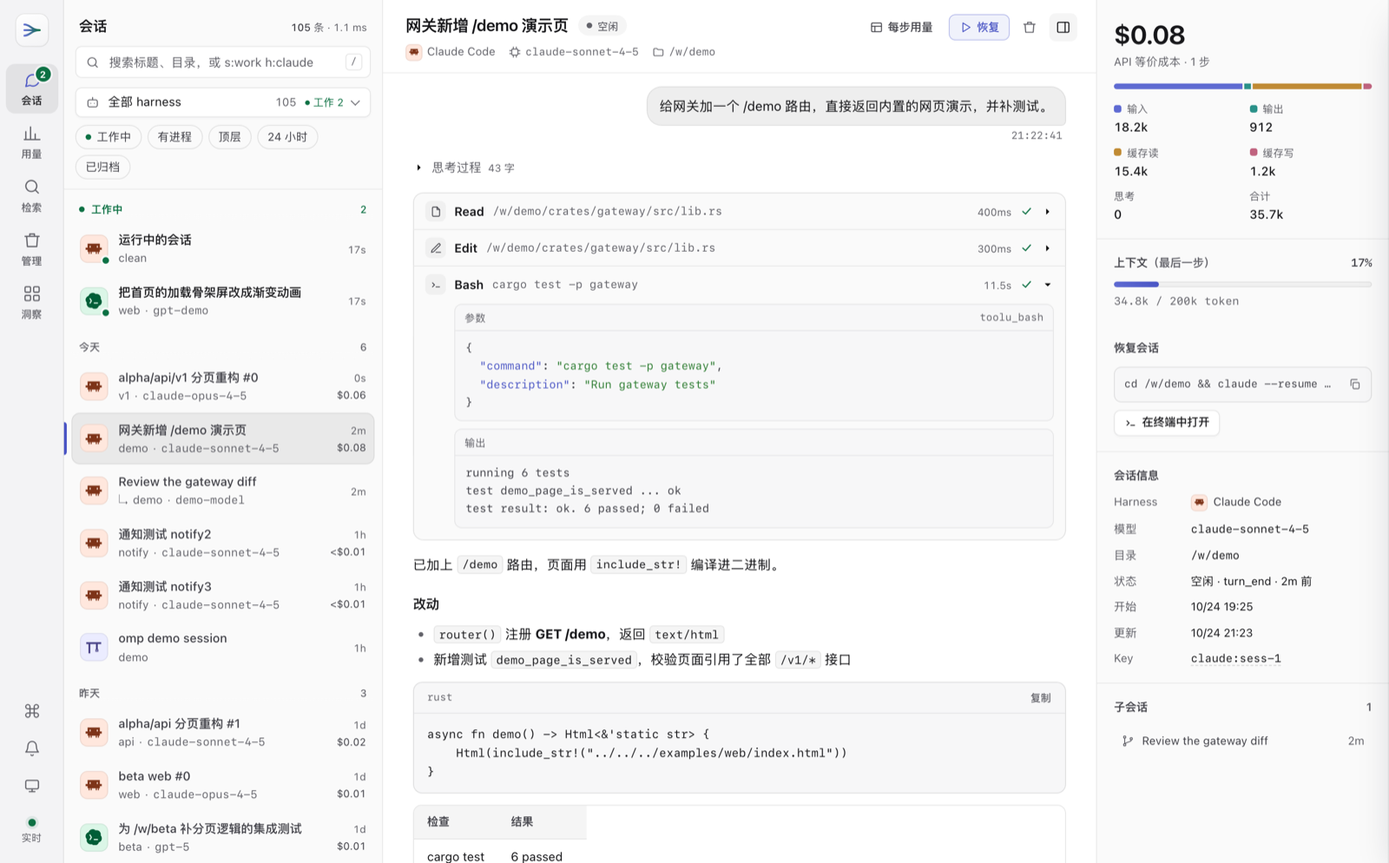
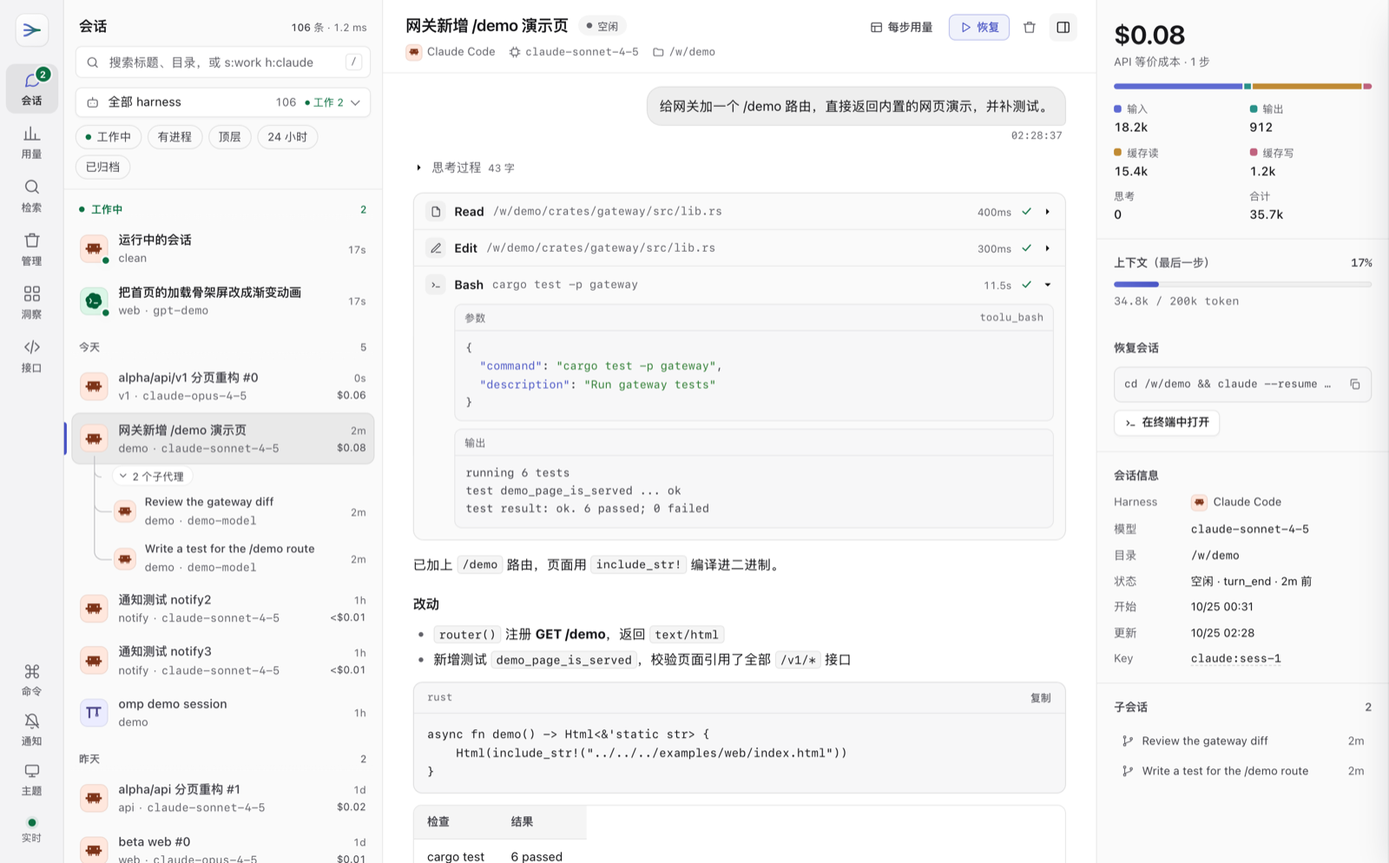
feat(gateway): 会话列表按父子层级显示子代理
- 子代理挂在父会话下，缩进加连接线；分支首行「N 个子代理 · M 工作中」可折叠
- 子代理多于 4 个时默认显示工作中的和最近 3 个，其余「还有 N 个子代理」展开
- 一家子按最活跃的成员归组排序；分组计数按顶层条目
- 子代理会话头改为「子代理 · 父会话 <标题>」，点击打开父会话
- e2e 新增 runTree 与第二个合成子代理；检索跳转用例等列表选中就绪再断言

diff --git a/crates/uniflo-gateway/src/index.html b/crates/uniflo-gateway/src/index.html
@@ -319,6 +319,27 @@ input[type=checkbox].cb:disabled { opacity: .35; cursor: not-allowed; }
 .row-side { display: flex; flex-direction: column; align-items: flex-end; gap: 1px; font-size: var(--fs-2xs); color: var(--text-3); font-variant-numeric: tabular-nums; white-space: nowrap; }
 .row-cost { color: var(--text-2); }
 .row .sub-i { color: var(--text-3); flex: none; }
+/* sub-agent tree: children hang under the parent's icon; trunk + elbow lines, folded with the chip */
+#list { --tree: color-mix(in srgb, var(--text-3) 38%, var(--bg-side)); }
+.kids { position: relative; margin-left: 24px; }
+.kids .kids { margin-left: 21px; }
+.kids > .node { position: relative; padding-left: 12px; }
+.kids > .node:not(:last-child)::before { content: ""; position: absolute; left: 0; top: 0; bottom: 0; border-left: 1.5px solid var(--tree); pointer-events: none; }
+.kids > .node > .row::after { content: ""; position: absolute; left: -12px; top: -9px; width: 18px; height: calc(50% + 9px); border: solid var(--tree); border-width: 0 0 1.5px 1.5px; border-bottom-left-radius: 9px; pointer-events: none; }
+.kids > .node > .row[data-status=work]::after { border-color: color-mix(in srgb, var(--work) 60%, var(--bg-side)); }
+.kids > .node > .row.sel::after { border-color: var(--accent); }
+.kids .row.sel::before { display: none; }
+.kids .ricon { --s: 24px; }
+.kids .row { gap: 9px; padding-top: 6px; padding-bottom: 6px; }
+.kids .row-title { font-size: var(--fs-xs); }
+.kid-tog { display: inline-flex; align-items: center; gap: 4px; height: 22px; margin: 1px 0 2px 7px; padding: 0 9px 0 5px; border: 1px solid var(--border); border-radius: 999px; background: var(--bg); color: var(--text-2); font-size: 11px; cursor: pointer; }
+.kid-tog:hover { border-color: var(--border-strong); color: var(--text); }
+.kid-tog.busy { color: var(--work); border-color: color-mix(in srgb, var(--work) 35%, transparent); }
+.kid-tog svg.i { width: 12px; height: 12px; transition: transform var(--dur) var(--ease); }
+.kid-tog[aria-expanded=true] svg.i { transform: rotate(90deg); }
+.kids-more { display: block; margin: 1px 0 3px 7px; padding: 3px 8px; border: 0; border-radius: 7px; background: none; color: var(--text-3); font-size: var(--fs-2xs); cursor: pointer; }
+.kids-more:hover { background: var(--hover); color: var(--text); }
+.kids > .node:is(.kh, .more)::after { content: ""; position: absolute; left: 0; top: -9px; width: 7px; height: calc(50% + 9px); border: solid var(--tree); border-width: 0 0 1.5px 1.5px; border-bottom-left-radius: 7px; pointer-events: none; }
 
 .conv { position: relative; display: flex; flex-direction: column; min-width: 0; min-height: 0; background: var(--bg); }
 .conv-h { display: flex; align-items: flex-start; gap: 12px; padding: 14px 20px 12px 24px; border-bottom: 1px solid var(--border); flex: none; }
@@ -331,6 +352,9 @@ input[type=checkbox].cb:disabled { opacity: .35; cursor: not-allowed; }
 .mchip > span { overflow: hidden; text-overflow: ellipsis; }
 .mchip svg.i { width: 13px; height: 13px; }
 .mchip.mono { font-size: 11.5px; }
+button.mchip { border: 0; background: none; padding: 0; font-family: inherit; cursor: pointer; }
+.parent-link:hover { color: var(--accent); }
+.parent-link .txt { color: var(--text-2); max-width: 22em; overflow: hidden; text-overflow: ellipsis; display: inline-block; vertical-align: bottom; }
 .ch-actions { display: flex; align-items: center; gap: 6px; flex: none; }
 #steps-toggle[aria-expanded=true] { background: var(--active); }
 .steps { margin: 0 20px 0 24px; border: 1px solid var(--border-2); border-top: 0; border-radius: 0 0 var(--r-lg) var(--r-lg); max-height: 300px; overflow: auto; flex: none; background: var(--panel); }
@@ -2289,20 +2313,25 @@ function renderList() {
   requestAnimationFrame(() => {
     listQueued = false;
     const all = order.map((k) => sessions.get(k)).filter(Boolean);
+    const tree = sessionTree(all), out = [];
     let html = "";
     if (filtered()) {
-      shown = all.map((s) => s.key);
-      html = all.map(rowHtml).join("");
+      html = tree.roots.map((s) => nodeHtml(s, tree, out)).join("");
     } else {
-      // Working sessions first, then the rest bucketed by the calendar day of their last activity.
+      // Working families first, then the rest bucketed by the calendar day of their latest activity.
       const today = new Date(); today.setHours(0, 0, 0, 0);
       const t0 = today.getTime(), y0 = addDays(today, -1).getTime(), w0 = addDays(today, -6).getTime();
       const groups = [["工作中", []], ["今天", []], ["昨天", []], ["最近 7 天", []], ["更早", []]];
-      for (const s of all) groups[s.status === "work" ? 0 : s.updated_at >= t0 ? 1 : s.updated_at >= y0 ? 2 : s.updated_at >= w0 ? 3 : 4][1].push(s);
-      shown = groups.flatMap(([, g]) => g.map((s) => s.key));
-      html = groups.filter(([, g]) => g.length).map(([name, g], i) =>
-        `<div class="group-h${name === "工作中" ? " live" : ""}">${name === "工作中" ? '<span class="dot work"></span>' : ""}<span>${name}</span><span class="n">${g.length}</span></div>` + g.map(rowHtml).join("")).join("");
+      for (const s of tree.roots) {
+        const f = tree.fam.get(s.key);
+        groups[f.work ? 0 : f.updated >= t0 ? 1 : f.updated >= y0 ? 2 : f.updated >= w0 ? 3 : 4][1].push(s);
+      }
+      html = groups.filter(([, g]) => g.length).map(([name, g]) => {
+        g.sort((a, b) => tree.fam.get(b.key).updated - tree.fam.get(a.key).updated);
+        return `<div class="group-h${name === "工作中" ? " live" : ""}">${name === "工作中" ? '<span class="dot work"></span>' : ""}<span>${name}</span><span class="n">${g.length}</span></div>` + g.map((s) => nodeHtml(s, tree, out)).join("");
+      }).join("");
     }
+    shown = out;
     $("#list").innerHTML = all.length ? html : `<div class="empty"><h3>没有匹配的会话</h3><p>试试 <kbd>s:work</kbd> 或换个关键词</p></div>`;
     const work = all.filter((s) => s.status === "work").length, badge = $("#rb-work");
     badge.hidden = !work;
@@ -2311,12 +2340,59 @@ function renderList() {
 }
 const usageCost = (u) => (!u || !u.steps ? "" : u.cost_usd != null ? money(u.cost_usd) : "未定价");
 const tile = (id, cls = "") => `<span class="htile ${cls}" style="--h:${hue(id)}">${hicon(id)}</span>`;
+// Sub-agents nest under their parent when the parent is in the list; a family sorts and groups by
+// its most active member, so a parent whose sub-agents are working sits in 工作中 with them.
+const kidFold = new Map(); // parent key -> true folded / false fully open; unset = auto
+const KIDS_AUTO = 4; // auto mode shows every working child plus the 3 latest, the rest behind "还有 N 个"
+function sessionTree(all) {
+  const by = new Map(all.map((s) => [s.key, s])), kids = new Map(), roots = [], fam = new Map();
+  for (const s of all) {
+    if (s.parent && s.parent !== s.key && by.has(s.parent)) (kids.get(s.parent) || kids.set(s.parent, []).get(s.parent)).push(s);
+    else roots.push(s);
+  }
+  const walk = (s, path) => {
+    if (fam.has(s.key)) return fam.get(s.key);
+    const f = { work: s.status === "work", updated: s.updated_at };
+    fam.set(s.key, f);
+    path.add(s.key);
+    for (const k of kids.get(s.key) || []) {
+      if (path.has(k.key)) continue;
+      const g = walk(k, path);
+      f.work ||= g.work; f.updated = Math.max(f.updated, g.updated);
+    }
+    path.delete(s.key);
+    return f;
+  };
+  for (const s of roots) walk(s, new Set());
+  // a parent cycle leaves its members unreachable from any root: list them as roots instead
+  for (const s of all) if (!fam.has(s.key)) { roots.push(s); walk(s, new Set()); }
+  for (const ks of kids.values()) ks.sort((a, b) => fam.get(b.key).work - fam.get(a.key).work || fam.get(b.key).updated - fam.get(a.key).updated);
+  return { roots, kids, fam };
+}
+function nodeHtml(s, tree, out, seen = new Set()) {
+  seen.add(s.key);
+  out.push(s.key);
+  const ks = (tree.kids.get(s.key) || []).filter((k) => !seen.has(k.key));
+  if (!ks.length) return `<div class="node">${rowHtml(s)}</div>`;
+  const fold = kidFold.get(s.key), busy = ks.filter((k) => tree.fam.get(k.key).work).length;
+  const vis = fold === true ? [] : fold === false || ks.length <= KIDS_AUTO ? ks : ks.slice(0, Math.max(3, busy));
+  const sel = ks.find((k) => k.key === selected); // the open session always stays visible
+  if (sel && !vis.includes(sel)) vis.push(sel);
+  const more = ks.length - vis.length;
+  const open = vis.length > 0;
+  const head = `<div class="node kh"><button class="kid-tog${busy ? " busy" : ""}" data-kids="${esc(s.key)}" aria-expanded="${open}" title="${open ? "收起" : "展开"}子代理">${icon("chev")}<span>${ks.length} 个子代理${busy ? ` · ${busy} 工作中` : ""}</span></button></div>`;
+  const kidsHtml = vis.map((k) => nodeHtml(k, tree, out, seen)).join("")
+    + (more && open ? `<div class="node more"><button class="kids-more" data-kids="${esc(s.key)}">还有 ${more} 个子代理</button></div>` : "");
+  return `<div class="node fam">${rowHtml(s)}<div class="kids" role="group" aria-label="${esc(label(s))} 的子代理">${head}${kidsHtml}</div></div>`;
+}
 function rowHtml(s) {
   const u = s.usage, cost = usageCost(u);
-  return `<div class="row${s.key === selected ? " sel" : ""}" data-key="${esc(s.key)}" data-status="${s.status}">
+  // a sub-agent whose parent is not in the list says so; nested ones show it through the tree lines
+  const orphan = s.parent && !sessions.has(s.parent) ? '<span class="sub-i" title="子代理，父会话不在当前列表">↳ 子代理</span>' : "";
+  return `<div class="row${s.key === selected ? " sel" : ""}${s.parent && sessions.has(s.parent) ? " kid" : ""}" data-key="${esc(s.key)}" data-status="${s.status}">
     <span class="ricon htile" style="--h:${hue(s.harness)}">${hicon(s.harness)}${s.status === "work" ? '<i class="live-ring"></i>' : ""}</span>
     <div class="row-main"><span class="row-title txt">${esc(label(s))}</span>
-      <div class="row-meta">${s.parent ? '<span class="sub-i" title="子会话">↳</span>' : ""}<span class="cwd txt">${esc(base(s.cwd) || s.harness)}</span>${s.model ? `<span class="sep">·</span><span class="mono">${esc(s.model)}</span>` : ""}${s.archived ? '<span class="tag acc" title="源文件已清理，内容来自精简归档">已归档</span>' : ""}${s.pid ? `<span class="pid" title="进程 ${s.pid}">⚡${s.pid}</span>` : ""}</div></div>
+      <div class="row-meta">${orphan}<span class="cwd txt">${esc(base(s.cwd) || s.harness)}</span>${s.model ? `<span class="sep">·</span><span class="mono">${esc(s.model)}</span>` : ""}${s.archived ? '<span class="tag acc" title="源文件已清理，内容来自精简归档">已归档</span>' : ""}${s.pid ? `<span class="pid" title="进程 ${s.pid}">⚡${s.pid}</span>` : ""}</div></div>
     <div class="row-side"><span class="age" data-ts="${s.updated_at}">${age(s.updated_at)}</span>${cost ? `<span class="row-cost" title="API 等价成本 ${esc(cost)} · ${full(tokensOf(u))} token · ${u.steps} 步">${esc(cost)}</span>` : ""}</div>
   </div>`;
 }
@@ -2539,7 +2615,7 @@ function renderHead(s, rebuild = false) {
     ${s.model ? `<span class="mchip mono">${icon("cpu")}<span>${esc(s.model)}</span></span>` : ""}
     ${s.cwd ? `<span class="mchip mono" title="${esc(s.cwd)}">${icon("folder")}<span class="txt">${esc(shortPath(s.cwd))}</span></span>` : ""}
     ${s.archived ? '<span class="tag acc" title="源文件已移入回收站，内容来自精简归档">已归档</span>' : ""}
-    ${s.parent ? `<span class="mchip">${icon("branch")}<span>子会话</span></span>` : ""}`;
+    ${s.parent ? `<button class="mchip parent-link" data-open="${esc(s.parent)}" title="打开父会话 ${esc(s.parent)}">${icon("branch")}<span>子代理 · 父会话 <span class="txt">${esc(sessions.has(s.parent) ? label(sessions.get(s.parent)) : short(s.parent))}</span></span></button>` : ""}`;
   renderInspector(s);
   loadHeadResume(s.key);
   renderUsageStrip(s.usage);
@@ -4754,6 +4830,12 @@ document.addEventListener("click", (e) => {
     syncFilters();
     queueSearch(0);
     return;
+  }
+  const kt = t.closest("[data-kids]");
+  if (kt) {
+    const k = kt.dataset.kids;
+    kidFold.set(k, kt.classList.contains("kids-more") ? false : kt.getAttribute("aria-expanded") === "true");
+    return renderList();
   }
   const row = t.closest(".row[data-key]");
   if (row) return select(row.dataset.key);

diff --git a/examples/web/index.html b/examples/web/index.html
@@ -319,6 +319,27 @@ input[type=checkbox].cb:disabled { opacity: .35; cursor: not-allowed; }
 .row-side { display: flex; flex-direction: column; align-items: flex-end; gap: 1px; font-size: var(--fs-2xs); color: var(--text-3); font-variant-numeric: tabular-nums; white-space: nowrap; }
 .row-cost { color: var(--text-2); }
 .row .sub-i { color: var(--text-3); flex: none; }
+/* sub-agent tree: children hang under the parent's icon; trunk + elbow lines, folded with the chip */
+#list { --tree: color-mix(in srgb, var(--text-3) 38%, var(--bg-side)); }
+.kids { position: relative; margin-left: 24px; }
+.kids .kids { margin-left: 21px; }
+.kids > .node { position: relative; padding-left: 12px; }
+.kids > .node:not(:last-child)::before { content: ""; position: absolute; left: 0; top: 0; bottom: 0; border-left: 1.5px solid var(--tree); pointer-events: none; }
+.kids > .node > .row::after { content: ""; position: absolute; left: -12px; top: -9px; width: 18px; height: calc(50% + 9px); border: solid var(--tree); border-width: 0 0 1.5px 1.5px; border-bottom-left-radius: 9px; pointer-events: none; }
+.kids > .node > .row[data-status=work]::after { border-color: color-mix(in srgb, var(--work) 60%, var(--bg-side)); }
+.kids > .node > .row.sel::after { border-color: var(--accent); }
+.kids .row.sel::before { display: none; }
+.kids .ricon { --s: 24px; }
+.kids .row { gap: 9px; padding-top: 6px; padding-bottom: 6px; }
+.kids .row-title { font-size: var(--fs-xs); }
+.kid-tog { display: inline-flex; align-items: center; gap: 4px; height: 22px; margin: 1px 0 2px 7px; padding: 0 9px 0 5px; border: 1px solid var(--border); border-radius: 999px; background: var(--bg); color: var(--text-2); font-size: 11px; cursor: pointer; }
+.kid-tog:hover { border-color: var(--border-strong); color: var(--text); }
+.kid-tog.busy { color: var(--work); border-color: color-mix(in srgb, var(--work) 35%, transparent); }
+.kid-tog svg.i { width: 12px; height: 12px; transition: transform var(--dur) var(--ease); }
+.kid-tog[aria-expanded=true] svg.i { transform: rotate(90deg); }
+.kids-more { display: block; margin: 1px 0 3px 7px; padding: 3px 8px; border: 0; border-radius: 7px; background: none; color: var(--text-3); font-size: var(--fs-2xs); cursor: pointer; }
+.kids-more:hover { background: var(--hover); color: var(--text); }
+.kids > .node:is(.kh, .more)::after { content: ""; position: absolute; left: 0; top: -9px; width: 7px; height: calc(50% + 9px); border: solid var(--tree); border-width: 0 0 1.5px 1.5px; border-bottom-left-radius: 7px; pointer-events: none; }
 
 .conv { position: relative; display: flex; flex-direction: column; min-width: 0; min-height: 0; background: var(--bg); }
 .conv-h { display: flex; align-items: flex-start; gap: 12px; padding: 14px 20px 12px 24px; border-bottom: 1px solid var(--border); flex: none; }
@@ -331,6 +352,9 @@ input[type=checkbox].cb:disabled { opacity: .35; cursor: not-allowed; }
 .mchip > span { overflow: hidden; text-overflow: ellipsis; }
 .mchip svg.i { width: 13px; height: 13px; }
 .mchip.mono { font-size: 11.5px; }
+button.mchip { border: 0; background: none; padding: 0; font-family: inherit; cursor: pointer; }
+.parent-link:hover { color: var(--accent); }
+.parent-link .txt { color: var(--text-2); max-width: 22em; overflow: hidden; text-overflow: ellipsis; display: inline-block; vertical-align: bottom; }
 .ch-actions { display: flex; align-items: center; gap: 6px; flex: none; }
 #steps-toggle[aria-expanded=true] { background: var(--active); }
 .steps { margin: 0 20px 0 24px; border: 1px solid var(--border-2); border-top: 0; border-radius: 0 0 var(--r-lg) var(--r-lg); max-height: 300px; overflow: auto; flex: none; background: var(--panel); }
@@ -2289,20 +2313,25 @@ function renderList() {
   requestAnimationFrame(() => {
     listQueued = false;
     const all = order.map((k) => sessions.get(k)).filter(Boolean);
+    const tree = sessionTree(all), out = [];
     let html = "";
     if (filtered()) {
-      shown = all.map((s) => s.key);
-      html = all.map(rowHtml).join("");
+      html = tree.roots.map((s) => nodeHtml(s, tree, out)).join("");
     } else {
-      // Working sessions first, then the rest bucketed by the calendar day of their last activity.
+      // Working families first, then the rest bucketed by the calendar day of their latest activity.
       const today = new Date(); today.setHours(0, 0, 0, 0);
       const t0 = today.getTime(), y0 = addDays(today, -1).getTime(), w0 = addDays(today, -6).getTime();
       const groups = [["工作中", []], ["今天", []], ["昨天", []], ["最近 7 天", []], ["更早", []]];
-      for (const s of all) groups[s.status === "work" ? 0 : s.updated_at >= t0 ? 1 : s.updated_at >= y0 ? 2 : s.updated_at >= w0 ? 3 : 4][1].push(s);
-      shown = groups.flatMap(([, g]) => g.map((s) => s.key));
-      html = groups.filter(([, g]) => g.length).map(([name, g], i) =>
-        `<div class="group-h${name === "工作中" ? " live" : ""}">${name === "工作中" ? '<span class="dot work"></span>' : ""}<span>${name}</span><span class="n">${g.length}</span></div>` + g.map(rowHtml).join("")).join("");
+      for (const s of tree.roots) {
+        const f = tree.fam.get(s.key);
+        groups[f.work ? 0 : f.updated >= t0 ? 1 : f.updated >= y0 ? 2 : f.updated >= w0 ? 3 : 4][1].push(s);
+      }
+      html = groups.filter(([, g]) => g.length).map(([name, g]) => {
+        g.sort((a, b) => tree.fam.get(b.key).updated - tree.fam.get(a.key).updated);
+        return `<div class="group-h${name === "工作中" ? " live" : ""}">${name === "工作中" ? '<span class="dot work"></span>' : ""}<span>${name}</span><span class="n">${g.length}</span></div>` + g.map((s) => nodeHtml(s, tree, out)).join("");
+      }).join("");
     }
+    shown = out;
     $("#list").innerHTML = all.length ? html : `<div class="empty"><h3>没有匹配的会话</h3><p>试试 <kbd>s:work</kbd> 或换个关键词</p></div>`;
     const work = all.filter((s) => s.status === "work").length, badge = $("#rb-work");
     badge.hidden = !work;
@@ -2311,12 +2340,59 @@ function renderList() {
 }
 const usageCost = (u) => (!u || !u.steps ? "" : u.cost_usd != null ? money(u.cost_usd) : "未定价");
 const tile = (id, cls = "") => `<span class="htile ${cls}" style="--h:${hue(id)}">${hicon(id)}</span>`;
+// Sub-agents nest under their parent when the parent is in the list; a family sorts and groups by
+// its most active member, so a parent whose sub-agents are working sits in 工作中 with them.
+const kidFold = new Map(); // parent key -> true folded / false fully open; unset = auto
+const KIDS_AUTO = 4; // auto mode shows every working child plus the 3 latest, the rest behind "还有 N 个"
+function sessionTree(all) {
+  const by = new Map(all.map((s) => [s.key, s])), kids = new Map(), roots = [], fam = new Map();
+  for (const s of all) {
+    if (s.parent && s.parent !== s.key && by.has(s.parent)) (kids.get(s.parent) || kids.set(s.parent, []).get(s.parent)).push(s);
+    else roots.push(s);
+  }
+  const walk = (s, path) => {
+    if (fam.has(s.key)) return fam.get(s.key);
+    const f = { work: s.status === "work", updated: s.updated_at };
+    fam.set(s.key, f);
+    path.add(s.key);
+    for (const k of kids.get(s.key) || []) {
+      if (path.has(k.key)) continue;
+      const g = walk(k, path);
+      f.work ||= g.work; f.updated = Math.max(f.updated, g.updated);
+    }
+    path.delete(s.key);
+    return f;
+  };
+  for (const s of roots) walk(s, new Set());
+  // a parent cycle leaves its members unreachable from any root: list them as roots instead
+  for (const s of all) if (!fam.has(s.key)) { roots.push(s); walk(s, new Set()); }
+  for (const ks of kids.values()) ks.sort((a, b) => fam.get(b.key).work - fam.get(a.key).work || fam.get(b.key).updated - fam.get(a.key).updated);
+  return { roots, kids, fam };
+}
+function nodeHtml(s, tree, out, seen = new Set()) {
+  seen.add(s.key);
+  out.push(s.key);
+  const ks = (tree.kids.get(s.key) || []).filter((k) => !seen.has(k.key));
+  if (!ks.length) return `<div class="node">${rowHtml(s)}</div>`;
+  const fold = kidFold.get(s.key), busy = ks.filter((k) => tree.fam.get(k.key).work).length;
+  const vis = fold === true ? [] : fold === false || ks.length <= KIDS_AUTO ? ks : ks.slice(0, Math.max(3, busy));
+  const sel = ks.find((k) => k.key === selected); // the open session always stays visible
+  if (sel && !vis.includes(sel)) vis.push(sel);
+  const more = ks.length - vis.length;
+  const open = vis.length > 0;
+  const head = `<div class="node kh"><button class="kid-tog${busy ? " busy" : ""}" data-kids="${esc(s.key)}" aria-expanded="${open}" title="${open ? "收起" : "展开"}子代理">${icon("chev")}<span>${ks.length} 个子代理${busy ? ` · ${busy} 工作中` : ""}</span></button></div>`;
+  const kidsHtml = vis.map((k) => nodeHtml(k, tree, out, seen)).join("")
+    + (more && open ? `<div class="node more"><button class="kids-more" data-kids="${esc(s.key)}">还有 ${more} 个子代理</button></div>` : "");
+  return `<div class="node fam">${rowHtml(s)}<div class="kids" role="group" aria-label="${esc(label(s))} 的子代理">${head}${kidsHtml}</div></div>`;
+}
 function rowHtml(s) {
   const u = s.usage, cost = usageCost(u);
-  return `<div class="row${s.key === selected ? " sel" : ""}" data-key="${esc(s.key)}" data-status="${s.status}">
+  // a sub-agent whose parent is not in the list says so; nested ones show it through the tree lines
+  const orphan = s.parent && !sessions.has(s.parent) ? '<span class="sub-i" title="子代理，父会话不在当前列表">↳ 子代理</span>' : "";
+  return `<div class="row${s.key === selected ? " sel" : ""}${s.parent && sessions.has(s.parent) ? " kid" : ""}" data-key="${esc(s.key)}" data-status="${s.status}">
     <span class="ricon htile" style="--h:${hue(s.harness)}">${hicon(s.harness)}${s.status === "work" ? '<i class="live-ring"></i>' : ""}</span>
     <div class="row-main"><span class="row-title txt">${esc(label(s))}</span>
-      <div class="row-meta">${s.parent ? '<span class="sub-i" title="子会话">↳</span>' : ""}<span class="cwd txt">${esc(base(s.cwd) || s.harness)}</span>${s.model ? `<span class="sep">·</span><span class="mono">${esc(s.model)}</span>` : ""}${s.archived ? '<span class="tag acc" title="源文件已清理，内容来自精简归档">已归档</span>' : ""}${s.pid ? `<span class="pid" title="进程 ${s.pid}">⚡${s.pid}</span>` : ""}</div></div>
+      <div class="row-meta">${orphan}<span class="cwd txt">${esc(base(s.cwd) || s.harness)}</span>${s.model ? `<span class="sep">·</span><span class="mono">${esc(s.model)}</span>` : ""}${s.archived ? '<span class="tag acc" title="源文件已清理，内容来自精简归档">已归档</span>' : ""}${s.pid ? `<span class="pid" title="进程 ${s.pid}">⚡${s.pid}</span>` : ""}</div></div>
     <div class="row-side"><span class="age" data-ts="${s.updated_at}">${age(s.updated_at)}</span>${cost ? `<span class="row-cost" title="API 等价成本 ${esc(cost)} · ${full(tokensOf(u))} token · ${u.steps} 步">${esc(cost)}</span>` : ""}</div>
   </div>`;
 }
@@ -2539,7 +2615,7 @@ function renderHead(s, rebuild = false) {
     ${s.model ? `<span class="mchip mono">${icon("cpu")}<span>${esc(s.model)}</span></span>` : ""}
     ${s.cwd ? `<span class="mchip mono" title="${esc(s.cwd)}">${icon("folder")}<span class="txt">${esc(shortPath(s.cwd))}</span></span>` : ""}
     ${s.archived ? '<span class="tag acc" title="源文件已移入回收站，内容来自精简归档">已归档</span>' : ""}
-    ${s.parent ? `<span class="mchip">${icon("branch")}<span>子会话</span></span>` : ""}`;
+    ${s.parent ? `<button class="mchip parent-link" data-open="${esc(s.parent)}" title="打开父会话 ${esc(s.parent)}">${icon("branch")}<span>子代理 · 父会话 <span class="txt">${esc(sessions.has(s.parent) ? label(sessions.get(s.parent)) : short(s.parent))}</span></span></button>` : ""}`;
   renderInspector(s);
   loadHeadResume(s.key);
   renderUsageStrip(s.usage);
@@ -4754,6 +4830,12 @@ document.addEventListener("click", (e) => {
     syncFilters();
     queueSearch(0);
     return;
+  }
+  const kt = t.closest("[data-kids]");
+  if (kt) {
+    const k = kt.dataset.kids;
+    kidFold.set(k, kt.classList.contains("kids-more") ? false : kt.getAttribute("aria-expanded") === "true");
+    return renderList();
   }
   const row = t.closest(".row[data-key]");
   if (row) return select(row.dataset.key);

diff --git a/notes/2026-10-25-worklog.md b/notes/2026-10-25-worklog.md
@@ -97,3 +97,18 @@
   - `crates/uniflo-search/src/fts/cold.rs:403`（测试）：`i64` 转 `i64`。
 - 教训：发版前用 CI 同版本工具链跑一遍门禁，`RUSTUP_TOOLCHAIN=1.99.0 CARGO_TARGET_DIR=target/clippy-199 scripts/verify.sh`；`cargo clippy --keep-going` 能一次列出全部 crate 的问题。
 - 修复后：`RUSTUP_TOOLCHAIN=1.99.0 CARGO_TARGET_DIR=target/clippy-199 scripts/verify.sh` → `verify: all checks passed`，exit 0（369 个测试、0 失败）；本机 1.94.1 `cargo clippy --workspace --all-targets -- -D warnings` 与 `cargo fmt --check` 也通过。
+- 第二次 release（run 40119200514，tag 移到 `bf91a28`）：门禁通过，`uniflo-schema 0.2.0` 已发到 crates.io（不可撤回）；接着发 `uniflo-client` 时 8 次重试都报 `failed to select a version for the requirement uniflo-adapters = "^0.2.0"`。原因：`uniflo-client` 的 dev-dependencies（core、adapters、gateway）带版本号，发布时 cargo 要求它们已在 crates.io 上，而 `scripts/publish-crates.sh` 把它排在第二个。改为排在 `uniflo-gateway` 之后（`uniflo` 不依赖它）。重跑时脚本会跳过已发布的 `uniflo-schema`。
+
+## 8. 会话列表按父子层级显示子代理
+
+- 起因：用户截图「工作中」分组，子代理和父会话分散显示，只有一个 `↳` 小符号，看不出层级；要求发版前改得更明确。
+- 做法（`examples/web/index.html`，同步到 `crates/uniflo-gateway/src/index.html`）：
+  - 列表先建树：父会话在当前列表里的子代理挂在它下面，缩进并用连接线（竖线 + 拐角）连到父会话图标；选中的子代理拐角用强调色，工作中的用绿色。
+  - 分支第一行是「N 个子代理 · M 工作中」，点击折叠或展开，不会打开父会话。子代理多于 4 个时默认只显示工作中的和最近 3 个，其余点「还有 N 个子代理」展开；当前打开的子代理始终可见。
+  - 一家子按最活跃的成员归组和排序：子代理在工作时，父会话也排进「工作中」。分组计数按顶层条目算。父会话不在列表里的子代理单独列出，标「↳ 子代理」；父子关系成环时环上的会话改作顶层，不会丢。
+  - 子代理的会话头改为「子代理 · 父会话 <标题>」按钮，点击打开父会话。
+- e2e：新增第二个合成子代理 `agent-sub2` 和 `runTree`：嵌套的子代理与 `/v1/sessions` 的 `parent` 一致、缩进 ≥ 20 px 且有连接线、计数文字、折叠不改变选中、再点展开、会话头写出父会话标题、点击打开父会话；截图 `tree-dark.png`、`tree-light.png`、`tree-folded.png`。`E2E_ONLY=runTree` → 7 项全过。
+- 真实数据核对：只读测试守护进程（`HOME`、`UNIFLO_DATA_DIR`、`UNIFLO_CACHE_DIR` 用临时目录，`--no-fts --read-only --no-price-sync`，端口 7464），前 300 个会话里 131 个有父会话，组成 20 个家族，最大 26 个子代理，没有找不到父会话的；`?redact` 截图核对：大家族默认显示 3 个加「还有 18 个子代理」，工作中的子代理排在最前。最初「工作中」分组计数把子代理都算进去显示成 41，已改为按顶层条目计数。测试目录已删除。
+- 第一次全量门禁 e2e 152/1：`[search] clicking the hit opens the session…` 的结果里缺 `selected`。原因是测试的时序竞争：时间线先渲染出命中事件，列表在下一帧才标出选中行，断言在两者之间取值；单独重跑同一步一次失败（全文索引冷启动，命中没出现）、一次通过。改为等时间线和列表都就绪再取值。
+- 门禁：`scripts/verify.sh --e2e` → `verify: all checks passed`，exit 0（cargo 测试 369 个、0 失败；e2e `{"ok":true,"passed":153,"failed":0}`）。
+- README 与 `docs/console.md` 的主截图 `demo.png`、`demo-light.png` 换成这次 e2e 的 `showcase-*.png`（合成数据，列表里能看到父会话下挂两个子代理）。

diff --git a/docs/console.md b/docs/console.md
@@ -26,6 +26,8 @@
 ## 会话视图
 
 - 左侧：fd/fzf 式搜索、可搜索的 harness 单选下拉、按「工作中 / 今天 / 昨天 / 最近 7 天 / 更早」分组的会话列表（harness 图标、工作中的脉冲点、子代理、存活进程、费用）。选择新的 harness 会替换原来的正向 `h:` / `harness:` 条件，保留其他查询条件；选「全部 harness」清除该条件。
+- 子代理挂在父会话下面：缩进并用连接线连到父会话图标，分支第一行是「N 个子代理 · M 工作中」，点击折叠或展开；子代理多于 4 个时默认只显示工作中的和最近 3 个，其余点「还有 N 个子代理」展开，当前打开的子代理始终可见。一家子按最活跃的成员归组和排序：子代理在工作时，父会话也排进「工作中」。父会话不在列表里（被过滤或超出条数）的子代理单独列出，标「↳ 子代理」。
+- 子代理的会话头显示「子代理 · 父会话 <标题>」，点击打开父会话；右侧详情的「子会话」列出它的子代理。
 - 中间：归一后的会话流——用户气泡、Markdown 回复（代码块可复制）、折叠的思考、一行一个的工具调用（参数 + 输出 + 耗时 + 状态），按回合汇总 token。
 - 右侧：会话详情面板，`]` 或会话头的按钮展开、收起（只动 transform 的滑动动画）。
 

diff --git a/docs/releases/v0.2.0.md b/docs/releases/v0.2.0.md
@@ -26,7 +26,7 @@
 | 模块 | 内容 |
 |---|---|
 | 全文索引分层存储 | 近 7 天活动过的会话保留原格式，更早的会话压缩成 zstd 块，结果无损。旧索引在后台转换，转完删除；转换期间检索照常可用。本机实测从 6.10 GB 降到 1.81 GB（−70%）。详见 ADR-0011 |
-| 网页控制台 | 按设计稿改版：左侧导航栏、三栏会话页、⌘K 命令面板、连接与诊断抽屉、跟随系统 / 浅色 / 深色主题；`?redact` 模糊全部标题与路径；导航栏底部按钮都有文字 |
+| 网页控制台 | 按设计稿改版：左侧导航栏、三栏会话页、⌘K 命令面板、连接与诊断抽屉、跟随系统 / 浅色 / 深色主题；`?redact` 模糊全部标题与路径；导航栏底部按钮都有文字；子代理按层级挂在父会话下，可折叠，会话头可跳回父会话 |
 | 「接口」视图 | 控制台第 6 个视图：列出全部接口，填参数后直接发送、看本机真实返回（结构树、原始 JSON、响应头，实时流逐条列出 Envelope）；每个请求附 curl、JavaScript 与 Rust SDK 写法 |
 | Rust 客户端 | 新 crate `uniflo-client`：连接运行中的守护进程，覆盖全部只读接口与实时流 |
 | MCP | 工具默认返回紧凑文本，字节减少 72.7%，字段不丢 |
